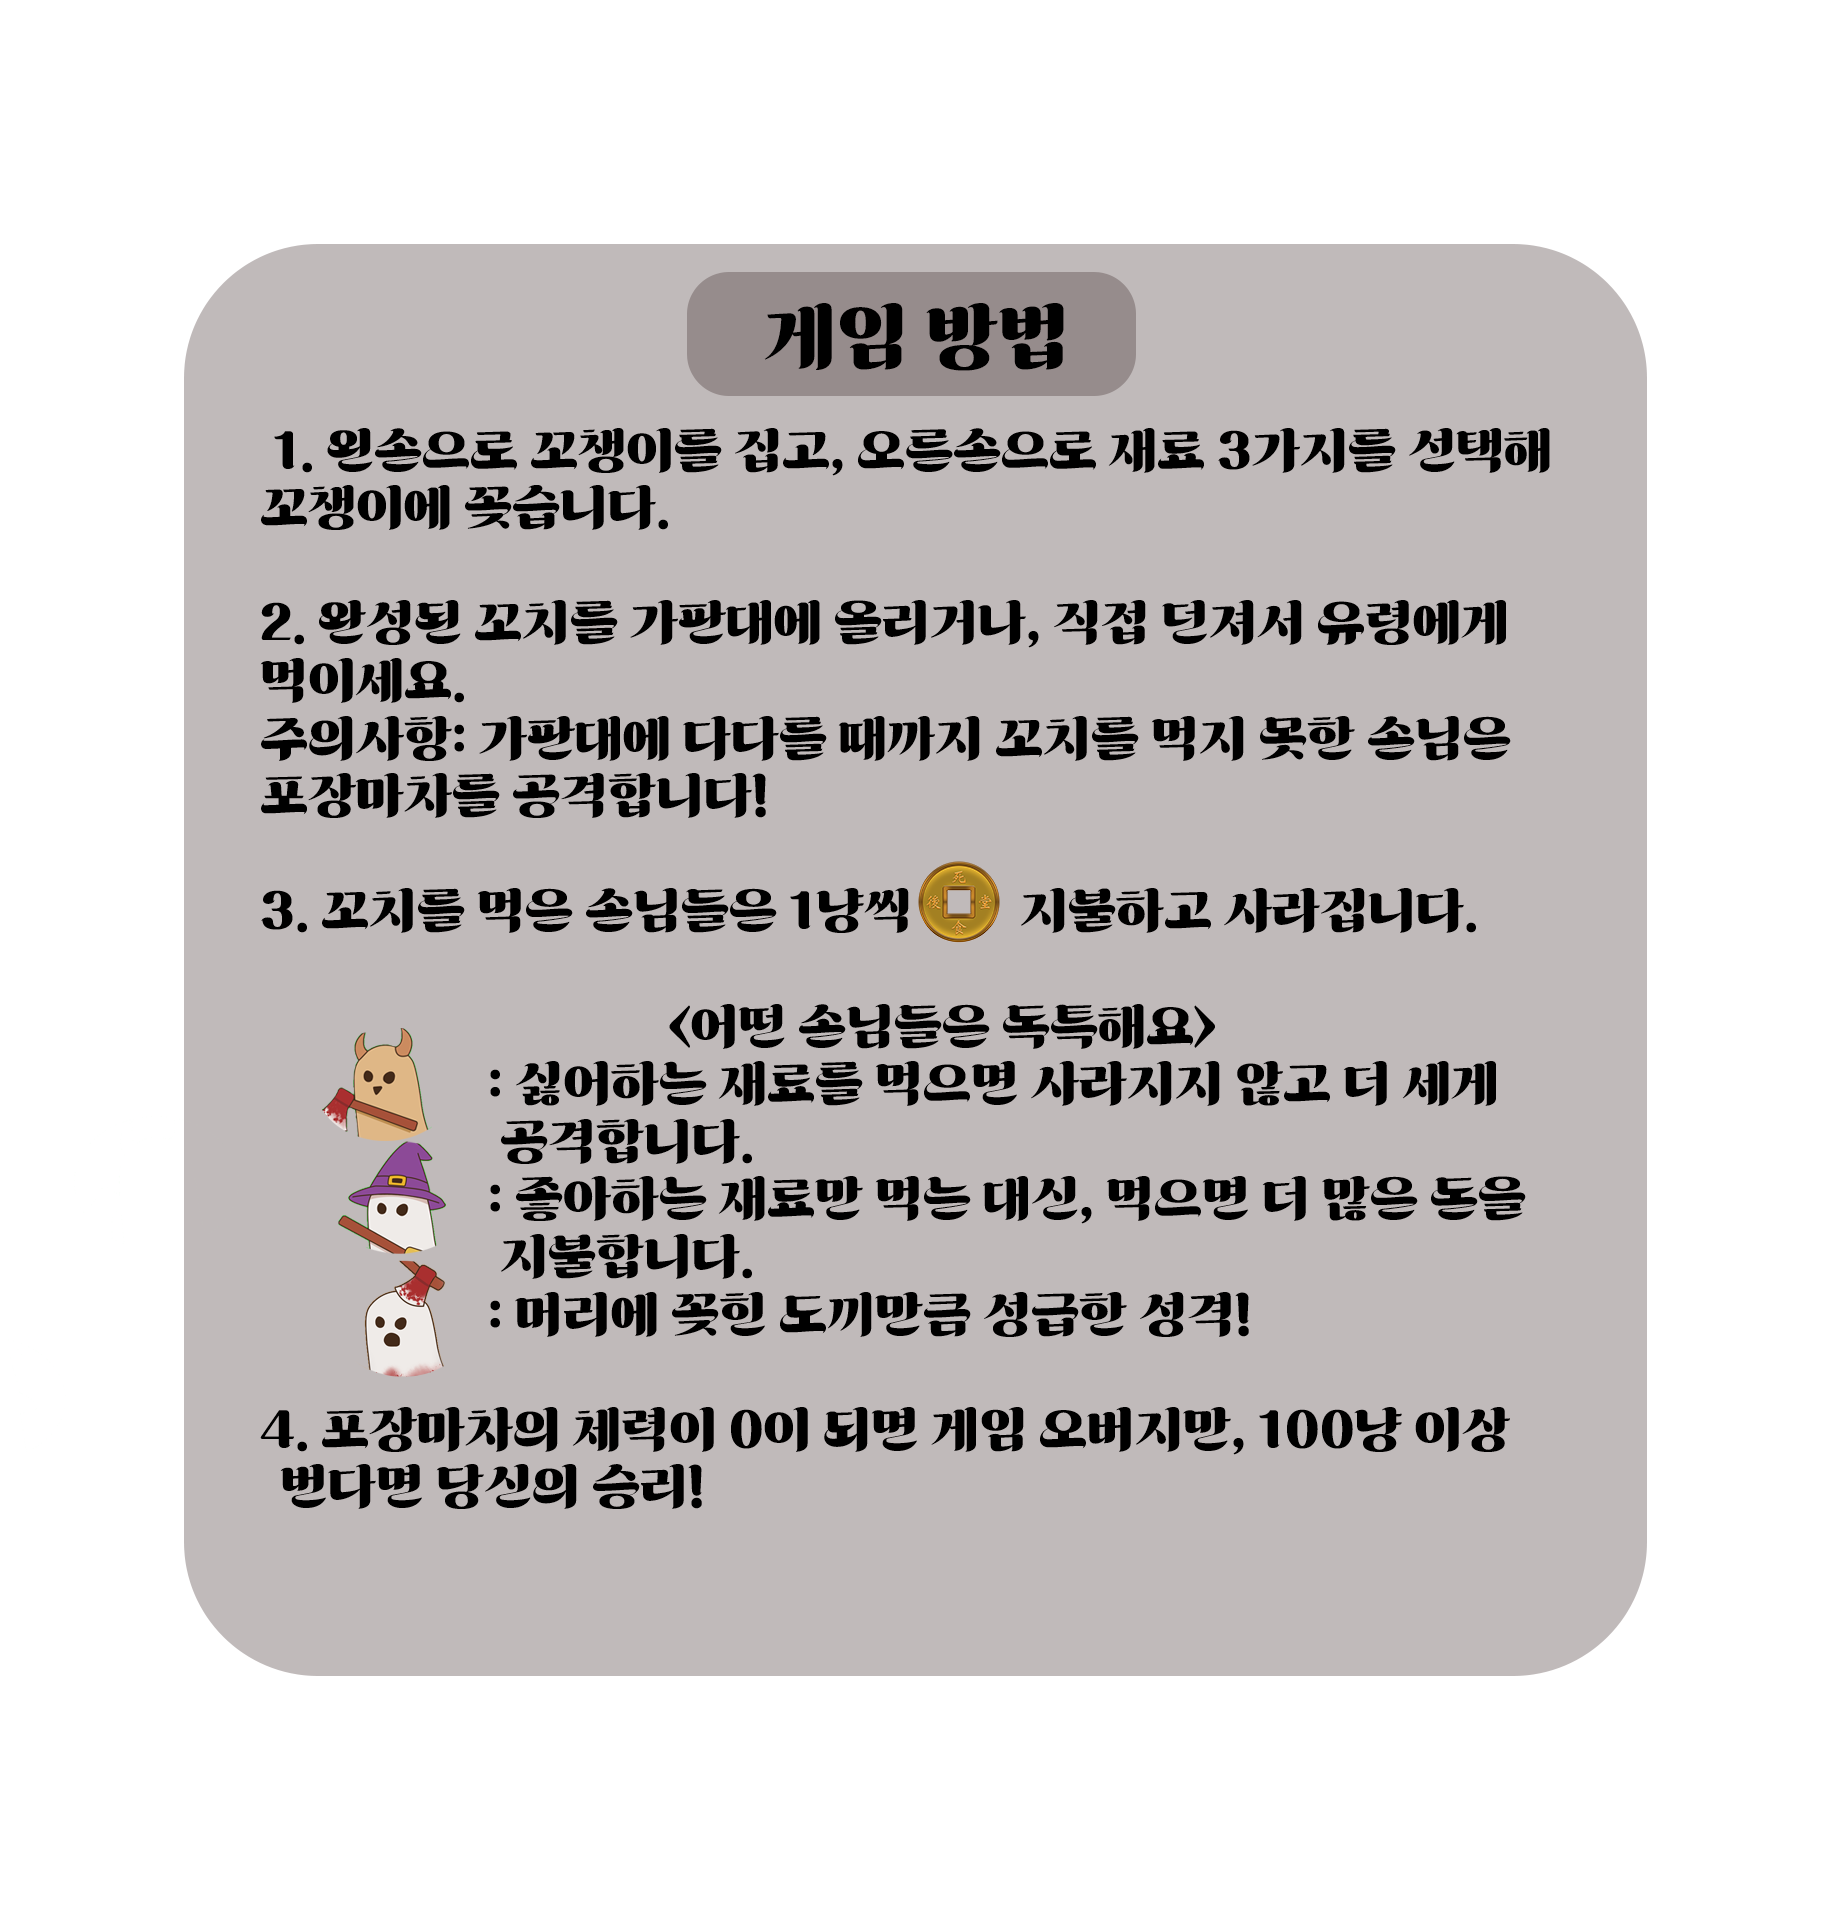
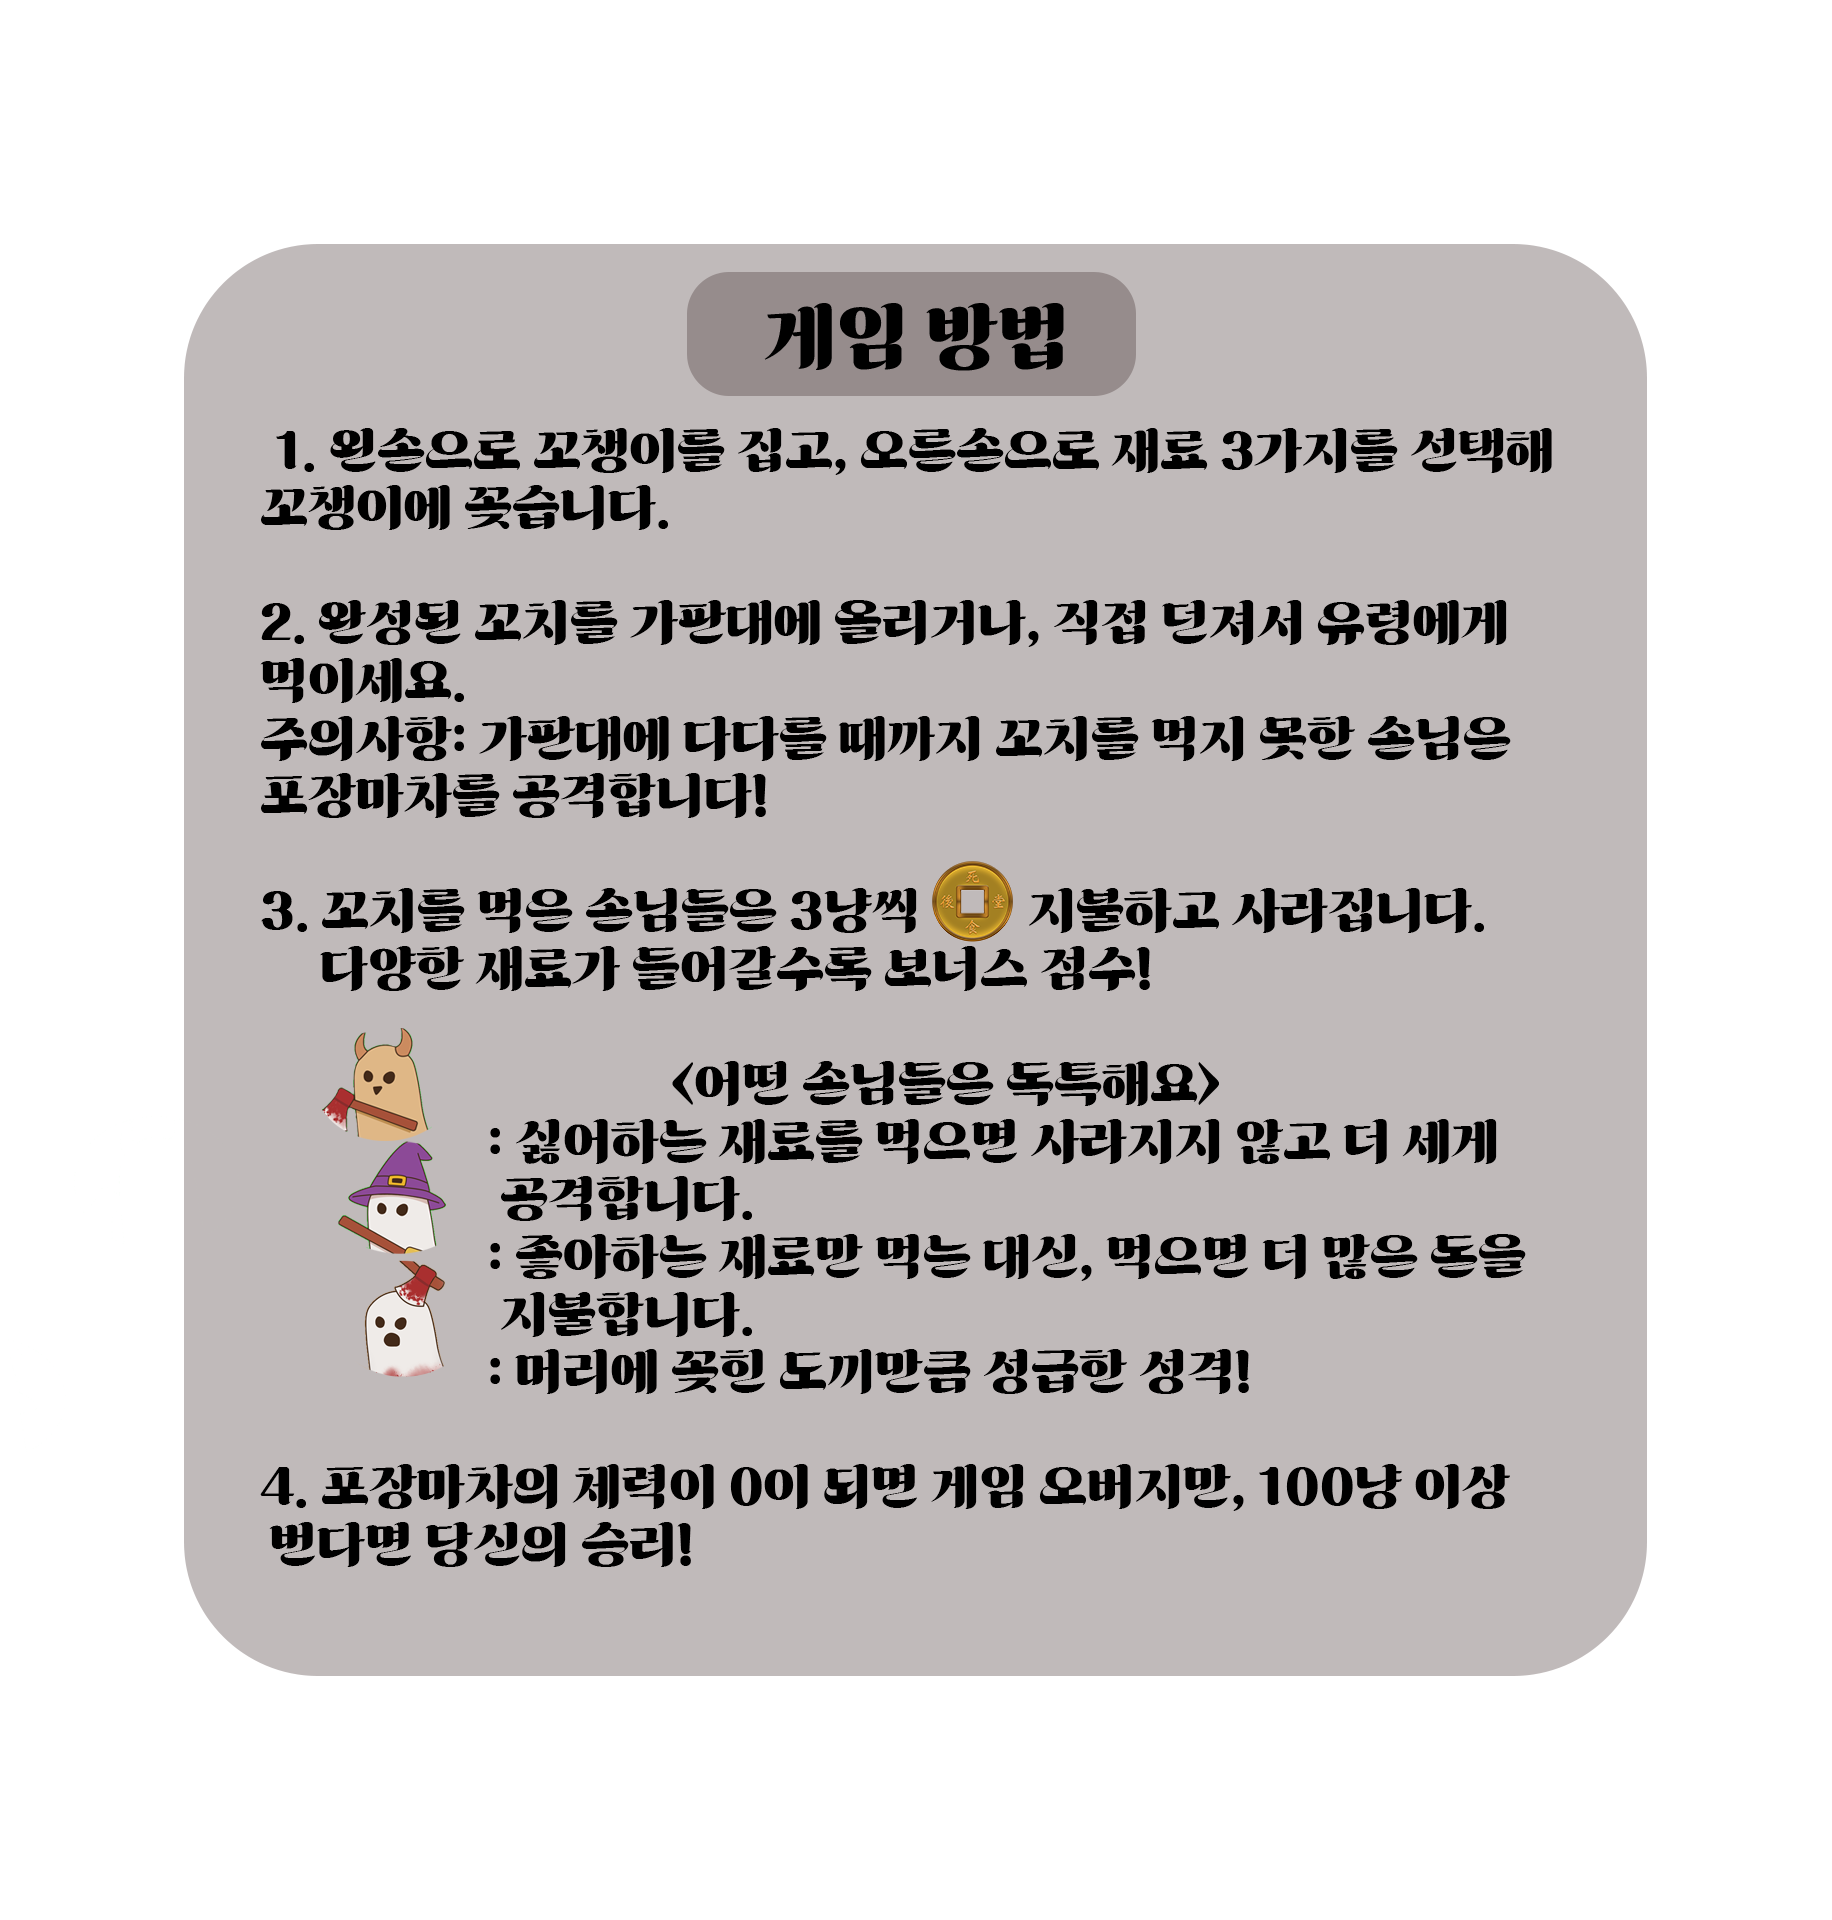
잘못된 행동 시 안내문 등장, 게임 설명 수정, 재료 다양성 따른 추가점수 시스템 추가

Changed region(s): [[0.1245, 0.4375, 0.8401, 0.8125], [0.1556, 0.2188, 0.8401, 0.25]]

diff --git a/Assets/02.Scripts/InGame/GuideText.cs b/Assets/02.Scripts/InGame/GuideText.cs
@@ -1,0 +1,163 @@
+using UnityEngine;
+using UnityEngine.UI;
+using System.Collections;
+
+public class GuideText : MonoBehaviour
+{
+    [Header("안내 메시지들")]
+    public string insufficientIngredientsMessage = "재료가 부족합니다! 재료 3개를 모두 넣어주세요!";
+    public string hatedIngredientMessage = "악마 유령은 그 재료를 싫어해요!";
+    public string NeededIngredientMessage = "마법사 유령이 좋아하는 재료를 주세요!";
+
+    [Header("표시 설정")]
+    public float displayDuration = 3f;     // 표시 시간
+    public bool useAnimation = true;
+    public float fadeSpeed = 2f;
+
+    // 싱글톤 패턴
+    public static GuideText Instance { get; private set; }
+
+    private Text textComponent;
+    private Coroutine currentMessageCoroutine;
+
+    void Awake()
+    {
+        // 싱글톤 설정
+        if (Instance != null && Instance != this)
+        {
+            Destroy(gameObject);
+            return;
+        }
+        Instance = this;
+
+        textComponent = GetComponent<Text>();
+        
+        // 초기에는 텍스트 숨기기
+        if (textComponent != null)
+        {
+            textComponent.text = "";
+            textComponent.color = new Color(textComponent.color.r, textComponent.color.g, textComponent.color.b, 0f);
+        }
+    }
+
+    /// <summary>
+    /// 재료 부족 안내문 표시
+    /// </summary>
+    public void ShowInsufficientIngredientsMessage()
+    {
+        ShowMessage(insufficientIngredientsMessage);
+    }
+
+    /// <summary>
+    /// 싫어하는 재료 안내문 표시
+    /// </summary>
+    public void ShowHatedIngredientMessage()
+    {
+        ShowMessage(hatedIngredientMessage);
+    }
+
+    /// <summary>
+    /// 필요한 재료 안내문 표시
+    /// </summary>
+    public void ShowNeededIngredientMessage()
+    {
+        ShowMessage(NeededIngredientMessage);
+    }
+
+    /// <summary>
+    /// 커스텀 메시지 표시
+    /// </summary>
+    public void ShowCustomMessage(string message)
+    {
+        ShowMessage(message);
+    }
+
+    /// <summary>
+    /// 메시지 표시 메인 메서드
+    /// </summary>
+    private void ShowMessage(string message)
+    {
+        // 이전 메시지가 표시 중이면 중단
+        if (currentMessageCoroutine != null)
+        {
+            StopCoroutine(currentMessageCoroutine);
+        }
+
+        // 새 메시지 표시
+        currentMessageCoroutine = StartCoroutine(DisplayMessageCoroutine(message));
+    }
+
+    /// <summary>
+    /// 메시지 표시 코루틴
+    /// </summary>
+    private IEnumerator DisplayMessageCoroutine(string message)
+    {
+        if (textComponent == null) yield break;
+
+        // 메시지 설정
+        textComponent.text = message;
+
+        if (useAnimation)
+        {
+            // 페이드 인
+            yield return StartCoroutine(FadeIn());
+            
+            // 표시 시간 대기
+            yield return new WaitForSeconds(displayDuration);
+            
+            // 페이드 아웃
+            yield return StartCoroutine(FadeOut());
+        }
+        else
+        {
+            // 애니메이션 없이 표시
+            textComponent.color = new Color(textComponent.color.r, textComponent.color.g, textComponent.color.b, 1f);
+            yield return new WaitForSeconds(displayDuration);
+            textComponent.color = new Color(textComponent.color.r, textComponent.color.g, textComponent.color.b, 0f);
+        }
+
+        // 텍스트 지우기
+        textComponent.text = "";
+        currentMessageCoroutine = null;
+    }
+
+    /// <summary>
+    /// 페이드 인 애니메이션
+    /// </summary>
+    private IEnumerator FadeIn()
+    {
+        Color originalColor = textComponent.color;
+        float elapsedTime = 0f;
+        float duration = 1f / fadeSpeed;
+
+        while (elapsedTime < duration)
+        {
+            elapsedTime += Time.deltaTime;
+            float alpha = Mathf.Lerp(0f, 1f, elapsedTime / duration);
+            textComponent.color = new Color(originalColor.r, originalColor.g, originalColor.b, alpha);
+            yield return null;
+        }
+        
+        textComponent.color = new Color(originalColor.r, originalColor.g, originalColor.b, 1f);
+    }
+
+    /// <summary>
+    /// 페이드 아웃 애니메이션
+    /// </summary>
+    private IEnumerator FadeOut()
+    {
+        Color originalColor = textComponent.color;
+        float elapsedTime = 0f;
+        float duration = 1f / fadeSpeed;
+
+        while (elapsedTime < duration)
+        {
+            elapsedTime += Time.deltaTime;
+            float alpha = Mathf.Lerp(1f, 0f, elapsedTime / duration);
+            textComponent.color = new Color(originalColor.r, originalColor.g, originalColor.b, alpha);
+            yield return null;
+        }
+        
+        textComponent.color = new Color(originalColor.r, originalColor.g, originalColor.b, 0f);
+    }
+}

diff --git a/Assets/02.Scripts/GhostPreferenceSystem.cs b/Assets/02.Scripts/GhostPreferenceSystem.cs
@@ -104,11 +104,16 @@ public class GhostPreferenceSystem : MonoBehaviour
             Debug.Log($"좋아하는 재료: {favoriteCount}개, 싫어하는 재료: {hatedCount}개");
         }
 
-        // 행동 결정
+        // 행동 결정 + 안내문 표시
         if (totalIngredients < 3)
         {
+            // 안내문 표시
+            if (GuideText.Instance != null)
+            {
+            GuideText.Instance.ShowInsufficientIngredientsMessage();
+            }
             // 조건: 재료가 3개 미만이면 화남
-            BecomeAngryByOmission();
+            BecomeAngry();
             CreateEffects(angryEffects);
             Destroy(skewer);
 
@@ -117,6 +122,11 @@ public class GhostPreferenceSystem : MonoBehaviour
         }
         else if (hatedCount > 0)
         {
+            // 안내문 표시
+            if (GuideText.Instance != null)
+            {
+                GuideText.Instance.ShowHatedIngredientMessage();
+            }
             // 싫어하는 재료가 있으면 화남
             BecomeAngry();
             CreateEffects(angryEffects);
@@ -159,6 +169,11 @@ public class GhostPreferenceSystem : MonoBehaviour
         }
         else
         {
+            //안내문 표시
+            if (GuideText.Instance != null)
+            {
+                GuideText.Instance.ShowNeededIngredientMessage();
+            }
             // 중립적 반응 - 꼬치만 사라짐
             if (showDebugMessages)
                 Debug.Log("꼬치만 사라집니다.");
@@ -196,26 +211,6 @@ public class GhostPreferenceSystem : MonoBehaviour
     }
 
     private void BecomeAngry()
-    {
-        if (ghostAI != null)
-        {
-            isAngry = true;
-            ghostAI.moveSpeed = originalSpeed * angrySpeedMultiplier;
-            ghostAI.damageAmount = (int)(originalDamage * angryDamageMultiplier);
-            ghostAI.attackInterval = originalAttackInterval / angryAttackSpeedMultiplier;
-            Animator animator = GetComponent<Animator>();
-            if (animator != null)
-            {
-                animator.speed = angryAttackSpeedMultiplier;
-            }
-
-            if (showDebugMessages)
-            {
-                Debug.Log($"분노 강화됨! 이동속도: {ghostAI.moveSpeed:F1}, 공격력: {ghostAI.damageAmount:F1}, 공격간격: {ghostAI.attackInterval:F2}초");
-            }
-        }
-    }
-private void BecomeAngryByOmission()
     {
         if (ghostAI != null)
         {
